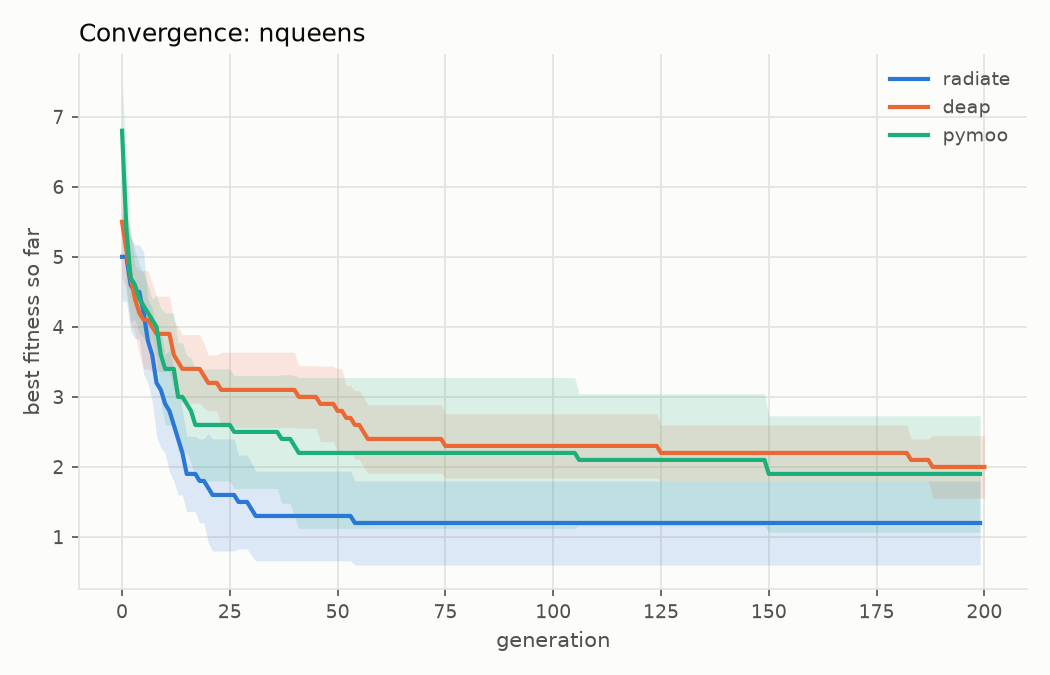
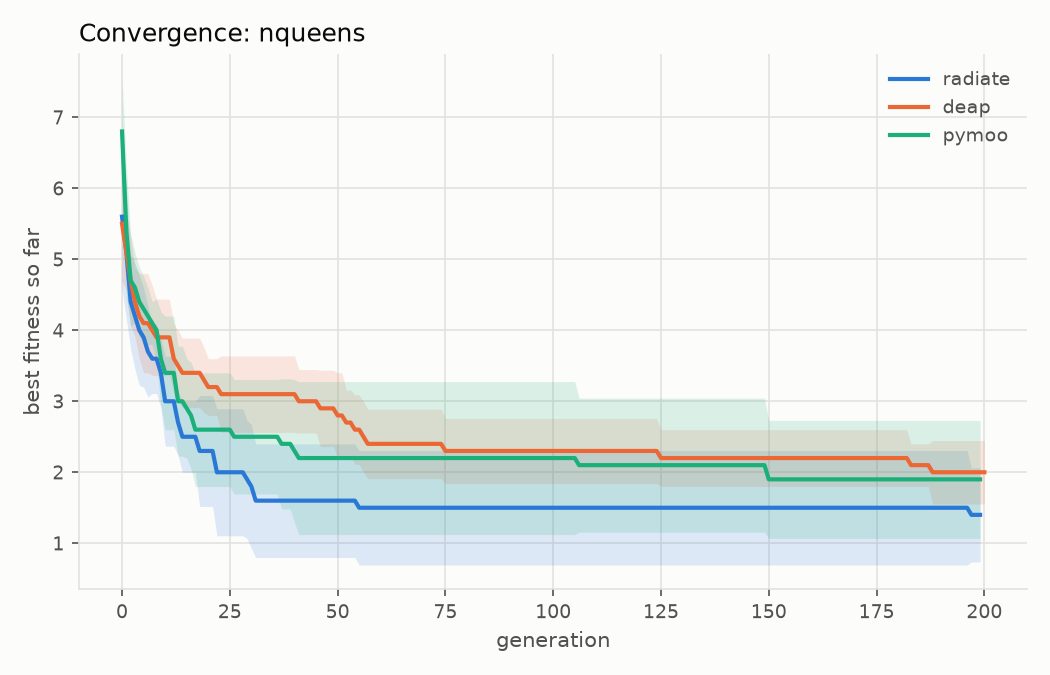
benches

Changed region(s): [[0.0305, 0.3422, 0.9752, 0.84]]

diff --git a/results/summary.md b/results/summary.md
@@ -1,32 +1,32 @@
 | problem    | library   |   best_mean |   best_std |   time_mean_s |   time_std_s |   n_trials |
 |:-----------|:----------|------------:|-----------:|--------------:|-------------:|-----------:|
-| ackley     | radiate   |      0.0207 |     0.0106 |        0.0767 |       0.0003 |         10 |
-| ackley     | deap      |      8.9594 |     0.4361 |        0.3832 |       0.0009 |         10 |
-| ackley     | pymoo     |      1.8515 |     0.3751 |        1.0203 |       0.0049 |         10 |
-| dtlz2      | radiate   |      0.7012 |     0.0100 |        0.0858 |       0.0004 |         10 |
-| dtlz2      | deap      |      0.6974 |     0.0061 |        1.8562 |       0.0066 |         10 |
-| dtlz2      | pymoo     |      0.7111 |     0.0056 |        0.6213 |       0.0047 |         10 |
-| knapsack   | radiate   |   2090.0000 |     0.0000 |        0.0662 |       0.0005 |         10 |
-| knapsack   | deap      |   1982.4000 |    35.0498 |        0.2919 |       0.0009 |         10 |
-| knapsack   | pymoo     |   2090.0000 |     0.0000 |        1.8985 |       0.0154 |         10 |
-| nqueens    | radiate   |      1.2000 |     0.6325 |        0.1735 |       0.0021 |         10 |
-| nqueens    | deap      |      2.0000 |     0.4714 |        0.3972 |       0.0008 |         10 |
-| nqueens    | pymoo     |      1.9000 |     0.8756 |        1.4980 |       0.0067 |         10 |
-| rastrigin  | radiate   |     10.8435 |     4.8314 |        0.0654 |       0.0003 |         10 |
-| rastrigin  | deap      |    182.1082 |    14.1792 |        0.3695 |       0.0007 |         10 |
-| rastrigin  | pymoo     |     14.1199 |     3.7540 |        1.0233 |       0.0080 |         10 |
-| rosenbrock | radiate   |     33.4129 |    14.9997 |        0.0745 |       0.0003 |         10 |
-| rosenbrock | deap      |    106.0411 |     4.8883 |        0.3799 |       0.0009 |         10 |
-| rosenbrock | pymoo     |     90.1068 |    23.4850 |        1.0176 |       0.0070 |         10 |
-| sphere     | radiate   |      0.0043 |     0.0019 |        0.0374 |       0.0005 |         10 |
-| sphere     | deap      |      3.9225 |     0.3664 |        0.3347 |       0.0060 |         10 |
-| sphere     | pymoo     |      0.0292 |     0.0061 |        1.0179 |       0.0088 |         10 |
-| tsp        | radiate   |    499.1356 |    12.1659 |        0.1248 |       0.0007 |         10 |
-| tsp        | deap      |    975.7242 |    21.3226 |        0.3484 |       0.0008 |         10 |
-| tsp        | pymoo     |    538.5293 |    54.1085 |        1.2541 |       0.0354 |         10 |
-| zdt1       | radiate   |      0.8628 |     0.0010 |        0.0560 |       0.0003 |         10 |
-| zdt1       | deap      |      0.8658 |     0.0006 |        1.9708 |       0.0042 |         10 |
-| zdt1       | pymoo     |      0.8568 |     0.0056 |        0.5870 |       0.0049 |         10 |
-| zdt3       | radiate   |      1.3161 |     0.0019 |        0.0595 |       0.0002 |         10 |
-| zdt3       | deap      |      1.3227 |     0.0010 |        1.9806 |       0.0037 |         10 |
-| zdt3       | pymoo     |      1.3079 |     0.0044 |        0.5837 |       0.0033 |         10 |
+| ackley     | radiate   |      0.0287 |     0.0113 |        0.0762 |       0.0003 |         10 |
+| ackley     | deap      |      8.9594 |     0.4361 |        0.3862 |       0.0025 |         10 |
+| ackley     | pymoo     |      1.8515 |     0.3751 |        1.0597 |       0.0296 |         10 |
+| dtlz2      | radiate   |      0.7031 |     0.0064 |        0.0871 |       0.0003 |         10 |
+| dtlz2      | deap      |      0.6974 |     0.0061 |        1.8728 |       0.0070 |         10 |
+| dtlz2      | pymoo     |      0.7111 |     0.0056 |        0.6293 |       0.0058 |         10 |
+| knapsack   | radiate   |   2089.1000 |     2.8460 |        0.0666 |       0.0006 |         10 |
+| knapsack   | deap      |   1982.4000 |    35.0498 |        0.2970 |       0.0046 |         10 |
+| knapsack   | pymoo     |   2090.0000 |     0.0000 |        1.9552 |       0.0441 |         10 |
+| nqueens    | radiate   |      1.4000 |     0.6992 |        0.1681 |       0.0063 |         10 |
+| nqueens    | deap      |      2.0000 |     0.4714 |        0.4067 |       0.0071 |         10 |
+| nqueens    | pymoo     |      1.9000 |     0.8756 |        1.5191 |       0.0250 |         10 |
+| rastrigin  | radiate   |      8.6151 |     4.2735 |        0.0644 |       0.0002 |         10 |
+| rastrigin  | deap      |    182.1082 |    14.1792 |        0.3716 |       0.0019 |         10 |
+| rastrigin  | pymoo     |     14.1199 |     3.7540 |        1.0255 |       0.0082 |         10 |
+| rosenbrock | radiate   |     35.2712 |    14.6523 |        0.0741 |       0.0003 |         10 |
+| rosenbrock | deap      |    106.0411 |     4.8883 |        0.3817 |       0.0021 |         10 |
+| rosenbrock | pymoo     |     90.1068 |    23.4850 |        1.0197 |       0.0082 |         10 |
+| sphere     | radiate   |      0.0052 |     0.0029 |        0.0385 |       0.0009 |         10 |
+| sphere     | deap      |      3.9225 |     0.3664 |        0.3362 |       0.0025 |         10 |
+| sphere     | pymoo     |      0.0292 |     0.0061 |        1.0208 |       0.0158 |         10 |
+| tsp        | radiate   |    486.8140 |    28.2915 |        0.1118 |       0.0038 |         10 |
+| tsp        | deap      |    975.7242 |    21.3226 |        0.3609 |       0.0088 |         10 |
+| tsp        | pymoo     |    538.5293 |    54.1085 |        1.2849 |       0.0441 |         10 |
+| zdt1       | radiate   |      0.8630 |     0.0012 |        0.0566 |       0.0004 |         10 |
+| zdt1       | deap      |      0.8658 |     0.0006 |        2.0020 |       0.0111 |         10 |
+| zdt1       | pymoo     |      0.8568 |     0.0056 |        0.5933 |       0.0048 |         10 |
+| zdt3       | radiate   |      1.3156 |     0.0019 |        0.0603 |       0.0003 |         10 |
+| zdt3       | deap      |      1.3227 |     0.0010 |        1.9990 |       0.0068 |         10 |
+| zdt3       | pymoo     |      1.3079 |     0.0044 |        0.5946 |       0.0068 |         10 |
